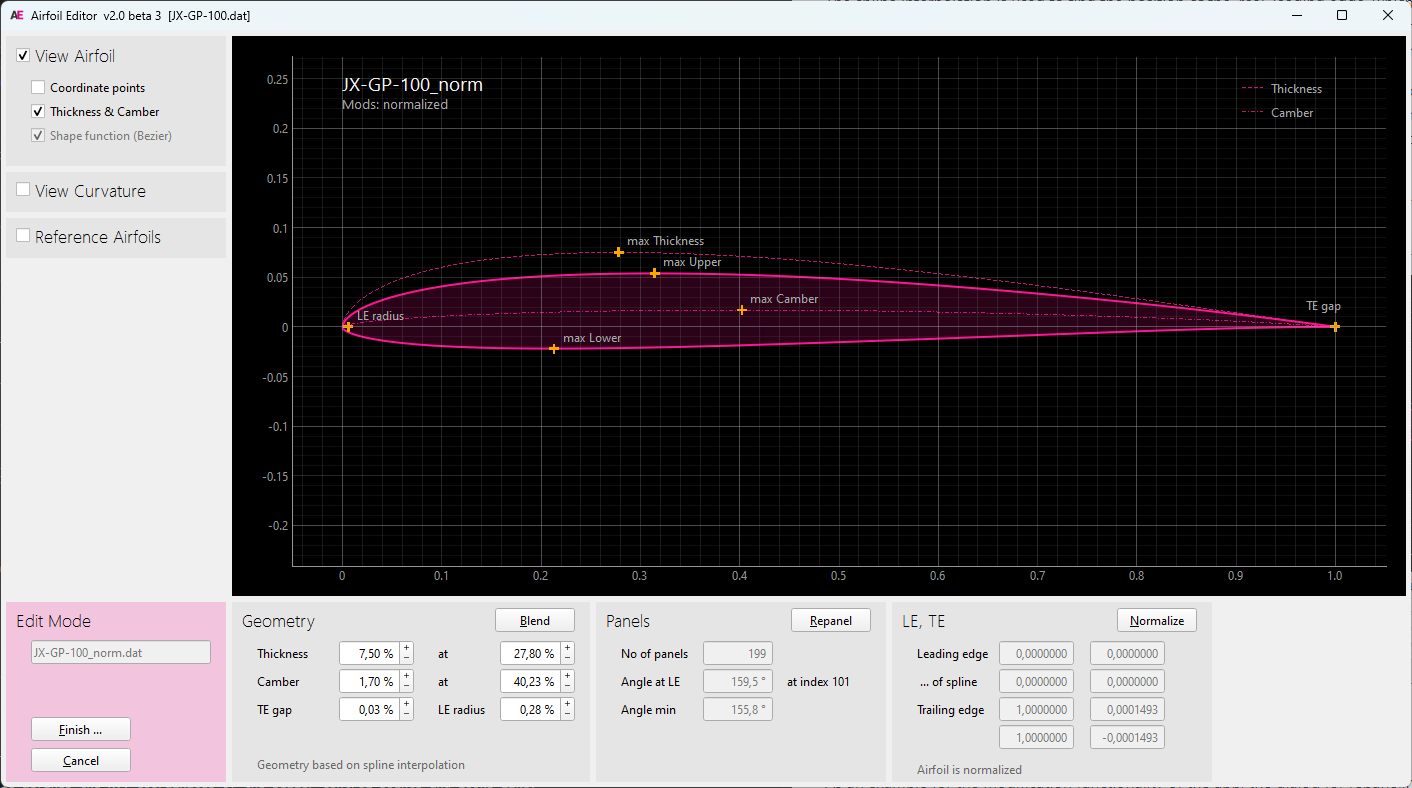
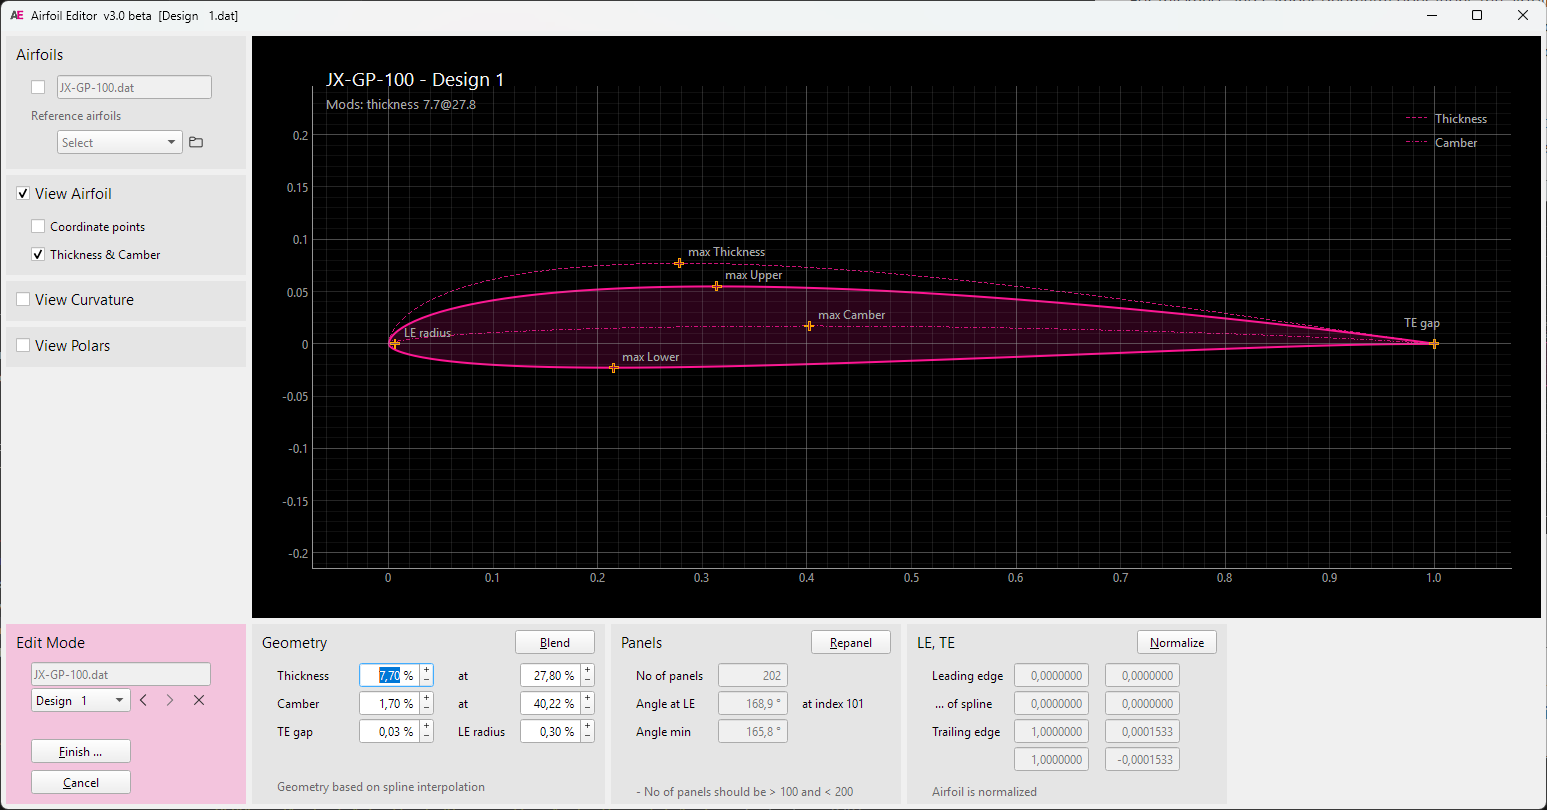
dev

diff --git a/AirfoilEditor.py b/AirfoilEditor.py
@@ -38,13 +38,12 @@ sys.path.append(os.path.join(Path(__file__).parent , 'modules'))
 
 from model.airfoil          import Airfoil, usedAs, GEO_SPLINE
 from model.airfoil_geometry import Panelling_Spline, Panelling_Bezier
-from model.airfoil_examples import Example
 from model.polar_set        import Polar_Definition, Polar_Set
 from model.xo2_driver       import Worker
 from model.case             import Case_Direct_Design
 
 from base.common_utils      import * 
-from base.panels            import Container_Panel, MessageBox
+from base.panels            import Container_Panel
 from base.widgets           import *
 
 from airfoil_widgets        import * 
@@ -64,23 +63,21 @@ logger.setLevel(logging.DEBUG)
 # The App   
 #-------------------------------------------------------------------------------
 
-# ------ globals -----
 
-AppName         = "Airfoil Editor"
-AppVersion      = "3.0 beta 1"
+APP_NAME         = "Airfoil Editor"
+APP_VERSION      = "3.0 beta"
 
 
 class App_Main (QMainWindow):
     '''
         The Airfoil Editor App
-
     '''
 
-    name = AppName  
+    name = APP_NAME  
 
     WORKER_MIN_VERSION          = '1.0.3'
 
-    # Signals 
+    # Qt Signals 
 
     sig_new_airfoil             = pyqtSignal()          # new airfoil selected 
     sig_new_design              = pyqtSignal()          # new airfoil design created 
@@ -101,22 +98,20 @@ class App_Main (QMainWindow):
     def __init__(self, airfoil_file, parent=None):
         super().__init__(parent)
 
-        self._airfoil = None                        # current airfoil 
-        self._airfoil_org = None                    # airfoil saved in edit_mode 
-        self._airfoils_ref = []                     # reference airfoils 
-        self._airfoil_target = None                 # target for match Bezier    
+        self._airfoil        = None                     # current airfoil 
+        self._airfoil_org    = None                     # airfoil saved in edit_mode 
+        self._airfoils_ref   = []                       # reference airfoils 
+        self._airfoil_target = None                     # target for match Bezier    
 
-        self._polar_definitions = None              # current polar definitions  
+        self._polar_definitions = None                  # current polar definitions  
 
-        self._edit_mode = False                     # edit/view mode of app 
-        self._case      = None                      # design Case holding all designs 
+        self._edit_mode = False                         # edit/view mode of app 
+        self._case      = None                          # design Case holding all designs 
 
-        self._data_panel = None 
+        self._data_panel = None                         # main panels of app
         self._file_panel = None
-        self._diagram = None
+        self._diagram    = None
 
-        self.parentApp = parent
-        self.initial_geometry = None                # window geometry at the beginning
 
         # if called from other applcation (PlanformCreator) make it modal to this 
 
@@ -195,11 +190,9 @@ class App_Main (QMainWindow):
         self.sig_enter_panelling.connect        (self._diagram.on_enter_panelling)
 
 
-
+    @override
     def __repr__(self) -> str:
-        # overwritten to get a nice print string 
-        text = f""  
-        return f"<{type(self).__name__}{text}>"
+        return f"<{type(self).__name__}>"
 
 
     def _init_layout (self): 
@@ -388,7 +381,7 @@ class App_Main (QMainWindow):
         self._airfoil.set_polarSet (Polar_Set (aNew, polar_def=self.polar_definitions()))
 
         logger.debug (f"Load new airfoil: {aNew.name}")
-        self.setWindowTitle (AppName + "  v" + str(AppVersion) + "  [" + self.airfoil().fileName + "]")
+        self.setWindowTitle (APP_NAME + "  v" + str(APP_VERSION) + "  [" + self.airfoil().fileName + "]")
 
         if not silent: 
             if self._airfoil.usedAsDesign:
@@ -465,7 +458,6 @@ class App_Main (QMainWindow):
     # --- airfoil functions -----------------------------------------------
 
 
-
     def blend_with (self): 
         """ run blend airfoil with dialog to blend current with another airfoil""" 
 
@@ -501,7 +493,6 @@ class App_Main (QMainWindow):
             self.airfoil().geo.repanel (just_finalize=True)                
 
         self.sig_airfoil_changed.emit()
-
 
 
     # --- private ---------------------------------------------------------
@@ -548,7 +539,7 @@ class App_Main (QMainWindow):
 
         if not airfoil.isExample:
             toDict (settings,'last_opened', airfoil.pathFileName)
-            
+
         ref_list = []
         for airfoil in self.airfoils_ref:
             ref_list.append (airfoil.pathFileName)
@@ -636,7 +627,7 @@ if __name__ == "__main__":
 
     # command line arguments? 
     
-    parser = argparse.ArgumentParser(prog=AppName, description='View and edit an airfoil')
+    parser = argparse.ArgumentParser(prog=APP_NAME, description='View and edit an airfoil')
     parser.add_argument("airfoil", nargs='*', help="Airfoil .dat or .bez file to show")
     args = parser.parse_args()
     if args.airfoil: 

diff --git a/modules/airfoil_ui_panels.py b/modules/airfoil_ui_panels.py
@@ -273,7 +273,7 @@ class Panel_Geometry (Panel_Airfoil_Abstract):
                 obj=self.geo, prop=Geometry.max_camb_x,
                 disable=lambda: self.airfoil().isBezierBased or self.airfoil().isSymmetrical)
         r += 1
-        FieldF (l,r,c, lab="LE radius", width=75, unit="%", step=0.1,
+        FieldF (l,r,c, lab="LE radius", width=75, unit="%", step=0.05,
                 obj=self.geo, prop=Geometry.le_radius,
                 disable=lambda: self.airfoil().isBezierBased)
         r += 1
@@ -367,8 +367,8 @@ class Panel_Panels (Panel_Airfoil_Abstract):
             text.append("- Min. angle of two panels is < 150°")
         if self.geo().panelAngle_le == 180.0: 
             text.append("- Leading edge has 2 points")
-        if self.geo().nPanels < 120 or self.geo().nPanels > 260: 
-            text.append("- No of panels should be > 120 and < 260")
+        if self.geo().nPanels < 100 or self.geo().nPanels > 200: 
+            text.append("- No of panels should be > 100 and < 200")
         
         text = '\n'.join(text)
         return text 

diff --git a/modules/base/common_utils.py b/modules/base/common_utils.py
@@ -6,18 +6,17 @@ Common Utility functions for convinience
 """
 
 import os
-from pathlib import Path
 import json
-from termcolor import colored
-
-import logging
-logger = logging.getLogger(__name__)
-logger.setLevel(logging.INFO)
+from pathlib            import Path
+from termcolor          import colored
 
 from PyQt6.QtWidgets    import QWidget
 from PyQt6.QtCore       import QSize 
 from PyQt6.QtGui        import QGuiApplication, QScreen
 
+import logging
+logger = logging.getLogger(__name__)
+logger.setLevel(logging.INFO)
 
 #------------------------------------------------------------------------------
 # logging 

diff --git a/README.md b/README.md
@@ -1,21 +1,22 @@
 ![AE](images/AirfoilEditor_logo.png "Screenshot of the AirfoilEditor ")
 
-# v2.0
+# v3.0
 
 
-The AirfoilEditor is on one hand a fast airfoil viewer and on the other hand a powerful editor to modify the geometry of an airfoil. Focusing on an airfoils geometry the principle of this app is: Don't do too much but do it really well.
+The AirfoilEditor is on one hand a fast airfoil viewer and on the other hand a powerful editor to modify the geometry of an airfoil. Focusing on an airfoils geometric and aerodynamic characteristics the principle of this app is: Don't do too much but do it really well.
 
 
 Main features:  
 
 * View an airfoil and browse through the airfoils of its subdirectory
-* View the curvature of the airfoil surface
+* Analyze the curvature of the airfoil surface
+* **! New !** View polars of an airfoil  
 * Repanel and normalize the airfoil
 * Modify the geometry parameters thickness, camber, its high points, trailing edge gap  
 * Create a Bezier curve based 'copy' of an airfoil 
 * Blend an airfoil with another airfoil 
 
-The driver for this app was to overcome some of the artefacts using xfoils geometry routines (for example used in Xflr5) when creating geometric 'high quality' airfoils. The focus of the app is on pure geometry work with airfoils - aerodynamic aspects are out of scope. 
+The driver for this app was to overcome some of the artefacts using xfoils geometry routines (for example used in Xflr5) when creating geometric 'high quality' airfoils. 
 
 An attempt was made to create a self-explanatory app that invites to play and try out. Hopefully this objective has been achieved ... 
 
@@ -23,14 +24,14 @@ An attempt was made to create a self-explanatory app that invites to play and tr
 ![AE](images/AirfoilEditor_App.png "Screenshot of the AirfoilEditor ")
 
 
-## Basic concepts
+## Geometry: Basic Concepts
 
 The `AirfoilEditor` implements different "strategies" to represent an airfoils geometry:
 
 - 'Linear interpolation' -  Based on the point coordinates of the airfoils '.dat' file, intermediate points are evaluated with a simple linear interpolation. This is used for fast preview and basic operations.
 - 'Cubic spline interpolation' - A cubic spline is built based on the airfoils point coordinates. The spline allows to evaluate intermediate points with high precision.
 - 'Bezier curve' - An airfoil is represented by two Bezier curves for upper and lower side of the airfoil. A nelder mead optimization allows to approximate the Bezier curves to an existing airfoil.
-- (not in 2.0 beta) 'Hicks Henne' - Hicks Henne bump functions are applied to a "seed airfoil" to achieve a new shape (in development for Xoptfoil2)  
+
 
 The spline interpolation is used to find the position of the 'real' leading edge, which may differ from the leading edge of the coordinates (which is the point with the smallest x-value). When 'normalizing' the airfoil, the 'real' leading edge is taken in an iteration to rotate, stretch and move the airfoil to become 0,0 - 1,0 normalized.
 
